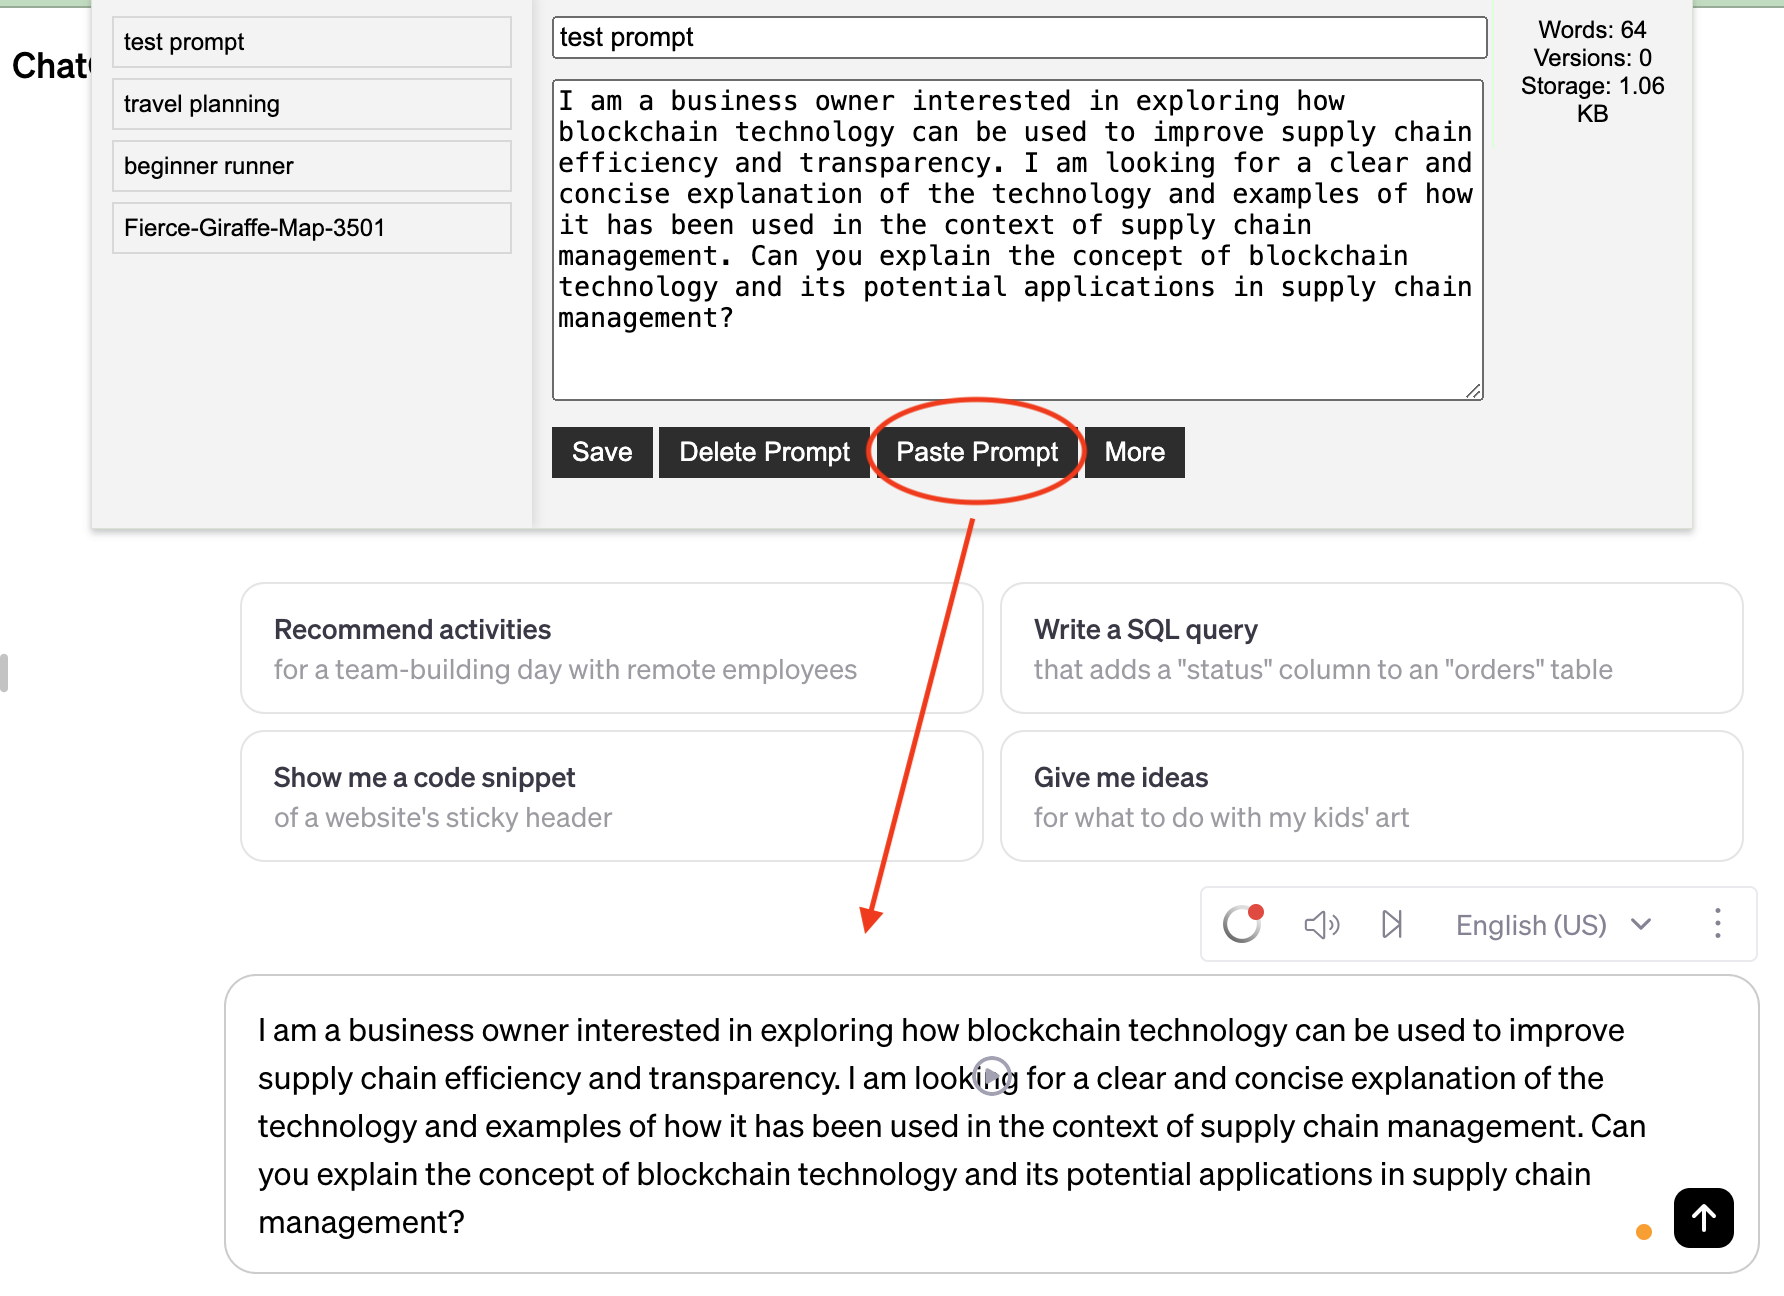
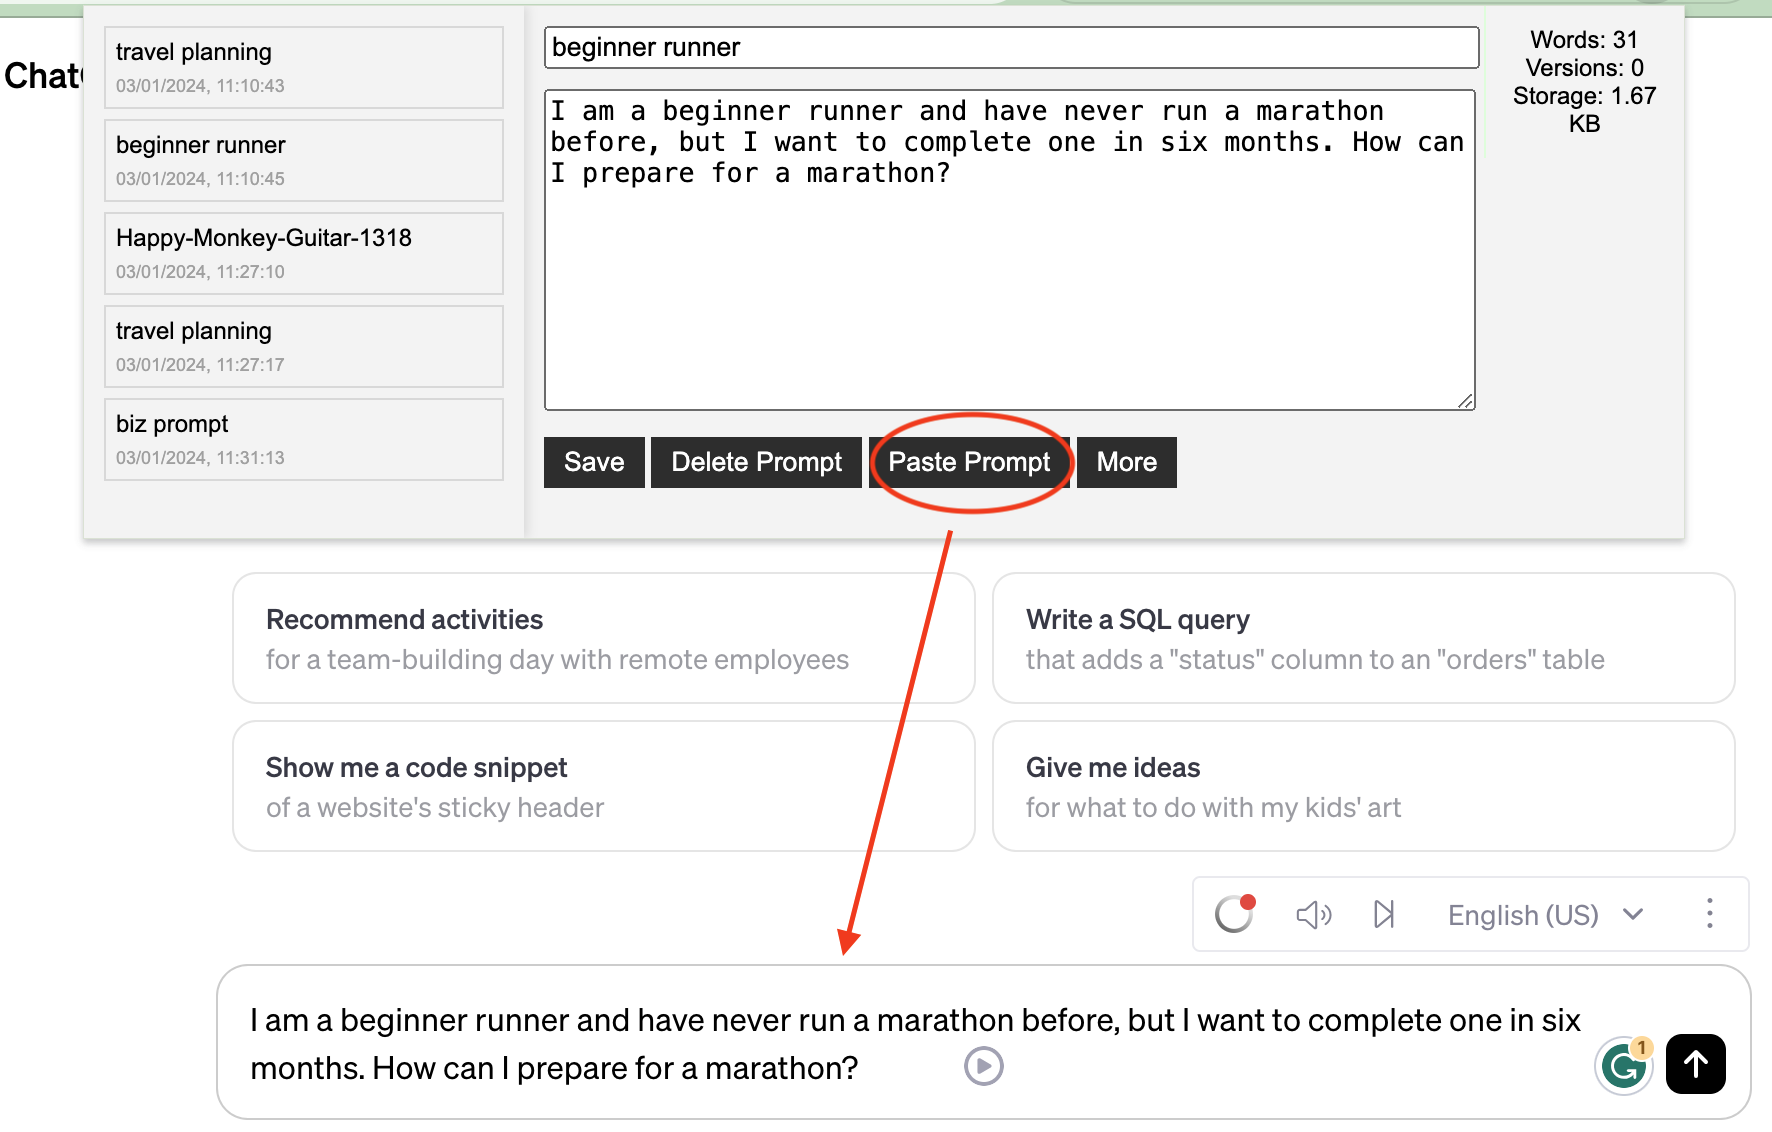
working baseline 1.0.7

Changed region(s): [[0.0, 0.0, 1.0, 0.9894], [0.807, 0.3401, 0.838, 0.371], [0.807, 0.2783, 0.838, 0.3092]]

diff --git a/popup.js b/popup.js
@@ -38,12 +38,12 @@ function generateRandomTitle() {
 
 
 document.getElementById('save-button').addEventListener('click', function() {
-    let title = document.getElementById('prompt-title').value.trim();
+    let baseTitle = document.getElementById('prompt-title').value.trim();
     let text = document.getElementById('prompt-text').value.trim();
+    let datetime = new Date().toISOString();
 
-    // If title is empty, generate a random title
-    if (title === '') {
-        title = generateRandomTitle();
+    if (baseTitle === '') {
+        baseTitle = generateRandomTitle();
     }
 
     if (text === '') {
@@ -53,10 +53,25 @@ document.getElementById('save-button').addEventListener('click', function() {
 
     chrome.storage.local.get({prompts: []}, function(data) {
         let prompts = data.prompts;
-        prompts.push({ title: title, text: text });
+        let titleExists = prompts.some(prompt => prompt.title.startsWith(baseTitle));
+        let newTitle = baseTitle;
+        
+        if (titleExists) {
+            // Extract the numeric part of the title, if any.
+            let maxNumber = prompts
+                .filter(prompt => new RegExp('^' + baseTitle + '( - \\d+)?$').test(prompt.title))
+                .reduce((max, prompt) => {
+                    let match = prompt.title.match(new RegExp('^' + baseTitle + ' - (\\d+)$'));
+                    return match ? Math.max(max, parseInt(match[1], 10)) : max;
+                }, 0);
+            newTitle = `${baseTitle} - ${maxNumber + 1}`;
+        }
+
+        // Add the new prompt at the start of the array
+        prompts.unshift({ title: newTitle, text: text, saved: datetime });
 
         chrome.storage.local.set({prompts: prompts}, function() {
-            document.getElementById('prompt-title').value = title; // Keep the generated title for reference
+            document.getElementById('prompt-title').value = newTitle; // Update the title to the new incremented title
             document.getElementById('prompt-text').value = '';
             displayPrompts();
             updateCurrentTextStats();
@@ -65,26 +80,10 @@ document.getElementById('save-button').addEventListener('click', function() {
     });
 });
 
-document.getElementById('delete-prompt-button').addEventListener('click', function() {
-    if (currentPromptIndex !== null) {
-        chrome.storage.local.get({prompts: []}, function(data) {
-            let prompts = data.prompts;
-            prompts.splice(currentPromptIndex, 1);
 
-            chrome.storage.local.set({prompts: prompts}, function() {
-                currentPromptIndex = null;
-                document.getElementById('prompt-title').value = '';
-                document.getElementById('prompt-text').value = '';
-                displayPrompts();
-                updateCurrentTextStats();
-                updateTotalStorageUsed();
-            });
-        });
-    } else {
-        alert('No prompt selected to delete.');
-    }
-});
 
+
+// Function to display prompts in the list
 function displayPrompts() {
     chrome.storage.local.get({prompts: []}, function(data) {
         let prompts = data.prompts;
@@ -94,28 +93,94 @@ function displayPrompts() {
         prompts.forEach(function(prompt, index) {
             let entry = document.createElement('div');
             entry.className = 'prompt-entry';
-            entry.textContent = prompt.title;
+
+            let titleSpan = document.createElement('span');
+            titleSpan.textContent = prompt.title;
+            entry.appendChild(titleSpan);
+
+            let dateSpan = document.createElement('span');
+            dateSpan.textContent = new Date(prompt.saved).toLocaleString();
+            dateSpan.className = 'date-stamp';
+            entry.appendChild(dateSpan);
+
             entry.addEventListener('click', function() {
+                currentPromptIndex = index; // Update the current index
                 document.getElementById('prompt-title').value = prompt.title;
                 document.getElementById('prompt-text').value = prompt.text;
-                currentPromptIndex = index;
-                updateCurrentTextStats();
+                updateCurrentTextStats(prompt.title.split(' - ')[0]); // Update stats based on the base title
             });
+
             promptListElement.appendChild(entry);
         });
 
-        if (prompts.length === 0) {
-            currentPromptIndex = null; // Reset if no prompts are available
+        if(prompts.length > 0) {
+            // Select the first prompt by default
+            promptListElement.firstChild.click();
+        } else {
+            // No prompts to display, clear the stats
+            clearStats();
         }
     });
 }
 
-function updateCurrentTextStats() {
+// Function to clear the stats
+function clearStats() {
+    document.getElementById('word-count').textContent = 'Words: 0';
+    document.getElementById('version-count').textContent = 'Versions: 0';
+    updateTotalStorageUsed(); // Update the storage usage
+}
+
+// Function to update the stats for the selected prompt
+function updateCurrentTextStats(baseTitle) {
     let currentText = document.getElementById('prompt-text').value;
     let wordCount = currentText.split(/\s+/).filter(Boolean).length;
     document.getElementById('word-count').textContent = 'Words: ' + wordCount;
-    document.getElementById('version-count').textContent = 'Versions: 0';
+
+    // Get the version count for the base title
+    chrome.storage.local.get({prompts: []}, function(data) {
+        let versionCount = data.prompts.filter(prompt => prompt.title.startsWith(baseTitle)).length;
+        document.getElementById('version-count').textContent = 'Versions: ' + versionCount;
+        updateTotalStorageUsed();
+    });
 }
+
+
+
+
+
+document.getElementById('delete-prompt-button').addEventListener('click', function() {
+    // Retrieve the title of the prompt that is currently being displayed.
+    let titleToDelete = document.getElementById('prompt-title').value;
+
+    // Get the existing prompts from storage.
+    chrome.storage.local.get({prompts: []}, function(data) {
+        let prompts = data.prompts;
+        
+        // Find the index of the prompt with the matching title.
+        let indexToDelete = prompts.findIndex(prompt => prompt.title === titleToDelete);
+
+        // If the prompt is found, delete it.
+        if (indexToDelete !== -1) {
+            prompts.splice(indexToDelete, 1);
+            
+            // Save the updated prompts list back to storage.
+            chrome.storage.local.set({prompts: prompts}, function() {
+                // Clear the input fields and reset the current prompt index.
+                document.getElementById('prompt-title').value = '';
+                document.getElementById('prompt-text').value = '';
+                
+                // Refresh the display of prompts.
+                displayPrompts();
+            });
+        } else {
+            // If no prompt is selected or the prompt was not found, alert the user.
+            alert('No prompt selected to delete or prompt not found.');
+        }
+    });
+});
+
+
+
 
 function updateTotalStorageUsed() {
     chrome.storage.local.getBytesInUse(null, function(bytesInUse) {
@@ -162,8 +227,6 @@ document.getElementById('paste-prompt-button').addEventListener('click', functio
 });
 
 
-
-
 function pasteText(text) {
     // This function gets injected into the tab's page context
     const activeElement = document.activeElement;
@@ -191,9 +254,6 @@ document.getElementById('import-prompts').addEventListener('click', function() {
     document.getElementById('import-file').click(); // Triggers the file selection
 });
 
-document.getElementById('import-prompts').addEventListener('click', function() {
-    document.getElementById('import-file').click();
-});
 
 document.getElementById('import-file').addEventListener('change', function(event) {
     let file = event.target.files[0];

diff --git a/styles.css b/styles.css
@@ -24,6 +24,14 @@ body, html {
     box-shadow: 2px 0 5px rgba(0,0,0,0.1);
 }
 
+
+.date-stamp {
+    display: block;
+    font-size: 0.75em;
+    color: #aaa;
+    margin-top: 5px;
+}
+
 #editor {
     display: flex;
     flex-direction: column;
